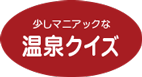
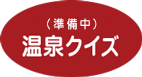
温泉泉質グラフ追加、高橋先生のプロフィール等修正しました。

Changed region(s): [[0.2254, 0.2338, 0.7887, 0.3896]]

diff --git a/onsen/index.html b/onsen/index.html
@@ -54,7 +54,7 @@
 						<a href="#onsenBangai"><img src="img/bangaiBtn.png" alt="番外編"></a>
 					</li>
 					<li class="imgbtm01">
-						<a href="#"><img src="img/quizBtn.png" alt="温泉クイズ"></a>
+						<img src="img/quizBtn.png" alt="温泉クイズ">
 					</li>
 					<li class="kosei">
 						<a href="#onsenKosei"><img src="img/koseiBtn.png" alt="個性派温泉ランキング"></a>
@@ -79,6 +79,7 @@
 									<li class="tokuchou">秘湯西の大関で硫黄を満喫。強烈な硫化水素臭と青白色の湯
 									</li>
 									<li class="kaisetu">
+									<p class="onsenphoto"><img src="img/sensitu_niiyu.jpg" alt=""></p>
 										<p class="onsenphoto"><img src="img/kirisima02.jpg" alt="霧島温泉"></p>
 										<p class="mapS">
 											<iframe src="https://www.google.com/maps/embed?pb=!1m18!1m12!1m3!1d3387.1348141753265!2d130.85233791591793!3d31.902934235341707!2m3!1f0!2f0!3f0!3m2!1i1024!2i768!4f13.1!3m3!1m2!1s0x353f1a4629fc091f%3A0x8c4a14de6c2012e6!2z5paw5rmv5rip5rOJ!5e0!3m2!1sja!2sjp!4v1468743156456" width="100%" height="150" frameborder="0" style="border:0" allowfullscreen></iframe>
@@ -96,6 +97,7 @@
 									<li class="onsenmei">含硫黄-カルシウム-硫酸塩・塩化物泉（pH2.2）</li>
 									<li class="tokuchou">驚愕のかぶり湯と温度別の湯、硫黄の谷？</li>
 									<li class="kaisetu">
+										<p class="onsenphoto"><img src="img/sensitu_nasuyumoto.jpg" alt=""></p>
 										<p class="onsenphoto"><img src="img/nasu01.jpg" alt="那須温泉"></p>
 										<p class="mapS">
 											<iframe src="https://www.google.com/maps/embed?pb=!1m14!1m8!1m3!1d12729.163051542782!2d140.00101!3d37.0981956!3m2!1i1024!2i768!4f13.1!3m3!1m2!1s0x0%3A0x45b7f6b15c53af83!2z6bm_44Gu5rmv!5e0!3m2!1sja!2sjp!4v1468742576988" width="100%" height="150" frameborder="0" style="border:0" allowfullscreen></iframe>
@@ -113,6 +115,7 @@
 									<li class="onsenmei">酸性-含硫黄-ナトリウム-硫酸塩・塩化物泉（pH1.8-2.5）</li>
 									<li class="tokuchou">高原の青空と乳白色の湯のコントラスト</li>
 									<li class="kaisetu">
+										<p class="onsenphoto"><img src="img/sensitu_manza.jpg" alt=""></p>
 										<p class="onsenphoto"><img src="img/manza01.jpg" alt="万座温泉"></p>
 										<p class="mapS">
 											<iframe src="https://www.google.com/maps/embed?pb=!1m18!1m12!1m3!1d3201.413442917218!2d138.50692361598198!3d36.64050318437098!2m3!1f0!2f0!3f0!3m2!1i1024!2i768!4f13.1!3m3!1m2!1s0x601deee7d31555a3%3A0x5ae9750aa8463bc9!2z5LiH5bqn5rip5rOJ!5e0!3m2!1sja!2sjp!4v1468745853072" width="100%" height="150" frameborder="0" style="border:0" allowfullscreen></iframe>
@@ -129,6 +132,7 @@
 									</li>
 									<li class="tokuchou">強酸性の温泉と噴気地帯でのワイルドすぎる岩盤浴</li>
 									<li class="kaisetu">
+										<p class="onsenphoto"><img src="img/sensitu_tamagawa.jpg" alt=""></p>
 										<p class="onsenphoto"><img src="img/tamagawa01.jpg" alt="玉川温泉"></p>
 										<p class="mapGoogle"><a href="https://goo.gl/maps/hj4q97TuhyM2" target="_blank">google mapを見る&nbsp;&gt;</a>
 										</p>　
@@ -142,6 +146,7 @@
 									<li class="onsenmei">酸性・含硫黄-アルミニウム-硫酸塩・塩化物泉（pH2.1）</li>
 									<li class="tokuchou">温泉番付で最高位の東の大関。自然湧出量は日本一</li>
 									<li class="kaisetu">
+										<p class="onsenphoto"><img src="img/sensitu_kusatu.jpg" alt=""></p>
 										<p class="onsenphoto"><img src="img/kusatu01.jpg" alt="草津温泉"></p>
 										<p class="mapGoogle"><a href="https://goo.gl/maps/NsuUzmib6HM2" target="_blank">google mapを見る&nbsp;&gt;</a>
 										</p>
@@ -156,6 +161,7 @@
 									<li class="onsenmei">含酸性-カルシウム-マグネシウム-硫酸塩・塩化物泉（pH2.9）</li>
 									<li class="tokuchou">黒玉子でも有名な大涌谷で作られる温泉</li>
 									<li class="kaisetu">
+								<p class="onsenphoto"><img src="img/sensitu_sengokuhara.jpg" alt=""></p>
 								<p class="onsenphoto"><img src="img/hakone01.jpg" alt="箱根温泉"></p>
 								<p class="mapGoogle"><a href="https://goo.gl/maps/oRj2AGWS89y" target="_blank">google mapを見る&nbsp;&gt;</a></p>　
 										<p class="txt">箱根火山の硫気地帯で最も規模が大きいのが大涌谷です。大涌谷は3000年ほど前の神山での水蒸気爆発の火口跡で、2015年春の活発化も記憶に新しいところです。
@@ -170,6 +176,7 @@
 									<li class="onsenmei">酸性-アルミニウム-硫酸塩泉（硫化水素型）など（pH2.8~）</li>
 									<li class="tokuchou">湯けむりといえば別府</li>
 									<li class="kaisetu">
+										<p class="onsenphoto"><img src="img/sensitu_beppu.jpg" alt=""></p>
 										<p class="onsenphoto"><img src="img/beppu01.jpg" alt="別府温泉"></p>
 										<p class="mapGoogle"><a href="https://goo.gl/maps/yskAKmH8emR2" target="_blank">google mapを見る&nbsp;&gt;</a></p>　
                     <p class="txt">火山性の熱源、豊富な地下水を湛える扇状地、温泉の通り道である断層の条件が整った別府には、断層に沿って泉質の異なる温泉エリアがいくつもあることをブラタモリ＃63で学びました。確かにあれほどの湯けむりの景色はなかなか他では見られません。見どころはつきない別府ですが、延内寺の爆裂火口跡にも驚かされます。泥火山も迫力で、ニュージーランドのロトルアと姉妹都市であるのも納得です。</p>
@@ -183,6 +190,7 @@
 									</li>
 									<li class="tokuchou">これぞ温泉地の源泉の風景</li>
 									<li class="kaisetu">
+										<p class="onsenphoto"><img src="img/sensitu_okunikko.jpg" alt=""></p>
 										<p class="onsenphoto"><img src="img/okunikko.jpg" alt="地獄谷温泉"></p>
 										<p class="mapGoogle"><a href="https://goo.gl/maps/YBD3zLrr3m82" target="_blank">google mapを見る&nbsp;&gt;</a></p>　
                     <p class="txt">日光は見どころ満載の有名な観光地ですが、奥日光まで足をのばすと、湯ノ湖のそばの湯ノ平湿原一帯には、標高1500ｍの高原の温泉地があります。地熱のパワーを感じさせる泉源地帯の光景は独特です。日帰りでも白濁の湯を堪能できる宿がたくさんあります。</p>
@@ -195,6 +203,7 @@
 									<li class="onsenmei">酸性・含硫黄-ナトリウム-硫酸塩泉ほか（pH1.4~）</li>
 									<li class="tokuchou">温泉ワンダーランド</li>
 									<li class="kaisetu">
+										<p class="onsenphoto"><img src="img/sensitu_noboribetu.jpg" alt=""></p>
 										<p class="onsenphoto"><img src="img/noboribetu.jpg" alt="登別温泉"></p>
 										<p class="mapGoogle"><a href="https://goo.gl/maps/rV66pJn7AoH2" target="_blank">google mapを見る&nbsp;&gt;</a></p>　
 										<p class="txt">草津の殺生河原，雲仙，箱根大涌谷など「地獄」の光景はどこも迫力満点ですが，中でも登別は規模が大きく，圧倒されます．すぐそばの温泉街には，いろんな泉質の湯を楽しめる旅館もあり，ワンダーな温泉地といえます．
@@ -208,6 +217,7 @@
 									<li class="onsenmei">酸性-含硫黄-アルミニウム-硫酸塩泉ほか（pH1.8~5.8）</li>
 									<li class="tokuchou">泥水中での噴気活動、坊主地獄も見られる雲仙地獄</li>
 									<li class="kaisetu">
+										<p class="onsenphoto"><img src="img/sensitu_unzen.jpg" alt=""></p>
 										<p class="onsenphoto"><img src="img/unzen01.jpg" alt="雲仙温泉"></p>
 										<p class="mapGoogle"><a href="https://goo.gl/maps/EYruPW2wJEN2" target="_blank">google mapを見る&nbsp;&gt;</a></p>　
 										<p class="txt">雲仙普賢岳の噴火は20年以上前のこととなりましたが、島原半島ジオパークは，随所で説明の看板が充実していて，self-guided tourもできますが，雲仙地獄ははずせない見学地点です．
@@ -230,6 +240,7 @@
 								<li class="onsenmei">ナトリウム-カルシウム-硫酸塩・塩化物泉（pH7.0）</li>
 								<li class="tokuchou">外国人観光客が集結するスノーモンキーの温泉</li>
 								<li class="kaisetu">
+									<p class="onsenphoto"><img src="img/sensitu_jigokudani.jpg" alt=""></p>
 									<p class="onsenphoto"><img src="img/jigokudani01.jpg" alt="地獄谷野猿公苑"></p>
 									<p class="mapS">
 										<iframe src="https://www.google.com/maps/embed?pb=!1m18!1m12!1m3!1d3197.5794891078754!2d138.45995631598325!3d36.732659279197165!2m3!1f0!2f0!3f0!3m2!1i1024!2i768!4f13.1!3m3!1m2!1s0x601df3ec4ca220cf%3A0xf64d8b73ef8dd61f!2z5Zyw542E6LC36YeO54y_5YWs6IuR!5e0!3m2!1sja!2sjp!4v1468769823221" width="100%" height="150" frameborder="0" style="border:0" allowfullscreen></iframe></p>　
@@ -244,6 +255,7 @@
 								<li class="onsenmei">単純温泉・アルカリ性単純温泉（pH5.0-8.6）</li>
 								<li class="tokuchou">なんと噴火口の中、さっぱり高温湯。"スメ"とは？</li>
 								<li class="kaisetu">
+								<p class="onsenphoto"><img src="img/sensitu_unagi.jpg" alt=""></p>
 									<p class="onsenphoto"><img src="img/unagi01.jpg" alt="鰻温泉"></p>
 									<p class="mapS">
 										<iframe src="https://www.google.com/maps/embed?pb=!1m18!1m12!1m3!1d6783417.6128137885!2d130.1937684595562!3d33.884099999288566!2m3!1f0!2f0!3f0!3m2!1i1024!2i768!4f13.1!3m3!1m2!1s0x353dd51e4870a5af%3A0x3e67658d43f44cbc!2z5Yy65Za26bC75rip5rOJ!5e0!3m2!1sja!2sjp!4v1480489407301" width="100%" height="150" frameborder="0" style="border:0" allowfullscreen></iframe></p>　
@@ -259,6 +271,7 @@
 								<li class="onsenmei">含鉄-ナトリウム-塩化物泉、二酸化炭素泉、放射能泉（pH4.6-6.2）</li>
 								<li class="tokuchou">西の大関、とにかく熱い金の湯！歴史的温泉地</li>
 								<li class="kaisetu">
+									<p class="onsenphoto"><img src="img/sensitu_arima.jpg" alt=""></p>
 									<p class="onsenphoto"><img src="img/arima01.jpg" alt="有馬温泉"></p>
 									<p class="mapS">
 										<iframe src="https://www.google.com/maps/embed?pb=!1m14!1m8!1m3!1d13105.062141122935!2d135.246313!3d34.7992608!3m2!1i1024!2i768!4f13.1!3m3!1m2!1s0x0%3A0x3153b76ab7ec41aa!2z5pyJ6aas5rip5rOJ6aeF!5e0!3m2!1sja!2sjp!4v1468818107315" width="100%" height="150" frameborder="0" style="border:0" allowfullscreen></iframe></p>　
@@ -274,6 +287,7 @@
 								<li class="onsenmei">ナトリウム-塩化物泉（pH6.0-7.0）</li>
 								<li class="tokuchou">80度の湯がわく海岸！砂蒸しは10分以内で</li>
 								<li class="kaisetu">
+									<p class="onsenphoto"><img src="img/sensitu_ibusuki.jpg" alt=""></p>
 									<p class="onsenphoto"><img src="img/ibusuki02.jpg" alt="指宿温泉"></p>
 									<p class="mapGoogle"><a href="https://goo.gl/maps/Q2Jg1eUWEht" target="_blank">google mapを見る&nbsp;&gt;</a></p>　
                  <p class="txt">砂蒸しは蒸かし湯の一種で、ユニークな入浴法といえます。指宿の海岸の摺ヶ浜では80度もの湯が自然に湧いており、背後の鰻池周辺から高温の温泉が地下水となって運ばれていると考えられています。
@@ -287,6 +301,7 @@
 								<li class="onsenmei">含硫黄-ナトリウム・カルシウム-硫酸塩泉ほか（pH7.9-9.1）</li>
 								<li class="tokuchou">ゆで釜のある伝統の湯の街の風景</li>
 								<li class="kaisetu">
+									<p class="onsenphoto"><img src="img/sensitu_nozawa.jpg" alt=""></p>
 									<p class="onsenphoto"><img src="img/nozawa02.jpg" alt="野沢温泉"></p>
 									<p class="mapGoogle"><a href="https://goo.gl/maps/sEs54bfqHX72" target="=blank">google mapを見る&nbsp;&gt;</a></p>　
 									<p class="txt">野沢温泉は、志賀高原の火山の一つである毛無山のふもとにあり、火山の恵みを実感できる地です。上杉・武田の湯治場でもあった野沢温泉の共同湯「大湯」は江戸時代の趣のある湯屋建築です。曲がりくねった細い坂道が多い温泉街では外湯めぐりや散策が楽しめ、朝市も人気です。
@@ -300,6 +315,7 @@
 								<li class="onsenmei">含鉄‐ナトリウム・カルシウム‐塩化物温泉（pH6.4）</li>
 								<li class="tokuchou">鉄分たっぷりの信州の湯</li>
 								<li class="kaisetu">
+									<p class="onsenphoto"><img src="img/sensitu_matusiro.jpg" alt=""></p>
 									<p class="onsenphoto"><img src="img/matushiro01.jpg" alt="松代温泉"></p>
 									<p class="mapGoogle"><a href="https://goo.gl/maps/PPdzQtv8vCR2" target="=blank">google mapを見る&nbsp;&gt;</a></p>　
                   <p class="txt">鉄分が濃厚な赤褐色の濁り湯を湛えた湯船の周りには分厚い析出物が見られます。ケンザンの上を歩くような析出物もあり、時々そぎ落としているようです。驚くべき鉄分の多さです。</p>
@@ -312,6 +328,7 @@
 								<li class="onsenmei">含硫黄-アルミニウム-硫酸塩泉（pH1.3-1.5）</li>
 								<li class="tokuchou">美しい火口湖が知られる蔵王火山の麓の強酸性の湯</li>
 								<li class="kaisetu">
+									<p class="onsenphoto"><img src="img/sensitu_zao.jpg" alt=""></p>
 									<p class="onsenphoto"><img src="img/zao01.jpg" alt="＊＊温泉"></p>
 									<p class="mapGoogle"><a href="https://goo.gl/maps/PSRyha4q8iF2" target="=blank">google mapを見る&nbsp;&gt;</a></p>
                   <p class="txt">スキーをはいて有名な樹氷モンスターの光景を堪能した後には，蔵王の湯で 体を温めるのがおすすめです。けれども透明でピリピリ感のある強酸性の湯は目に入るとしばらく開けられないほど強烈なので、注意が必要なほどです。</p>
@@ -324,6 +341,7 @@
 								<li class="onsenmei">含硫黄‐ナトリウム・マグネシウム・カルシウム‐炭酸水素塩温（pH6.6）</li>
 								<li class="tokuchou">標高2,000mの絶景の野天風呂</li>
 								<li class="kaisetu">
+									<p class="onsenphoto"><img src="img/sensitu_takamine.jpg" alt=""></p>
 									<p class="onsenphoto"><img src="img/takamine.jpg" alt="高峰温泉"></p>
 									<p class="mapGoogle"><a href="https://goo.gl/maps/yEaJ3PHA7wM2" target="=blank">google mapを見る&nbsp;&gt;</a></p>　登山，スキー，星空や野鳥，高原植物の観察などいろいろ楽しむことができる高峰高原．
 									<br>　高峰温泉は、烏帽子・浅間火山群の真っただ中にあります。日帰り利用もできるランプの湯では、やや温度の低めの源泉も楽しめます。かすかに硫黄の匂いのする湯はよく温まります。特筆すべきは、宿泊者限定の野天風呂で、目の前に絶景が広がります。
@@ -336,6 +354,7 @@
 								<li class="onsenmei">塩化物泉（pH8.1-8.7）</li>
 								<li class="tokuchou">全国でも珍しいワニの温泉飼育（伊豆熱川）</li>
 								<li class="kaisetu">
+									<p class="onsenphoto"><img src="img/sensitu_atagawa.jpg" alt=""></p>
 									<p class="onsenphoto"><img src="img/atagawa01.jpg" alt="熱川温泉"></p>
 									<p class="mapGoogle"><a href="https://goo.gl/maps/wac5oDFaSf52" target="=blank">google mapを見る&nbsp;&gt;</a></p>　気持ちよさそうにプカプカと温泉に浸っているワニを見ると，おとなしい動物なのではないかと錯覚しそうになります．湯のよさは，このワニ達が証明しているといえそうです（もちろんこの湯船には人は入れませんが）．
 									<br>　ここでは熱帯植物の栽培にも温泉が利用されていて，温室できれいな植物をたくさん見ることもできます．
@@ -348,6 +367,7 @@
 								<li class="onsenmei">含ナトリウム塩化物-カルシウム硫酸塩泉（硫化水素型）（pH7.2）</li>
 								<li class="tokuchou">高台移転をした、ダムに沈みゆく思い出の温泉地</li>
 								<li class="kaisetu">
+									<p class="onsenphoto"><img src="img/sensitu_kawarayu.jpg" alt=""></p>
 									<p class="onsenphoto"><img src="img/kawarayu01.jpg" alt="川原湯温泉"></p>
 									<p class="mapGoogle"><a href="https://goo.gl/maps/XrkEfHjVmz52" target="=blank">google mapを見る&nbsp;&gt;</a></p>　昭和の雰囲気を残す温泉街にあった共同湯．とにかく熱い湯でした．
 									<br>　熱すぎる時は，水の出るホースを持って入るのだと地元の方に教えられた記憶があります．</li>
@@ -374,6 +394,7 @@
 								<li class="onsenmei">単純硫黄泉（pH8.1）</li>
 								<li class="tokuchou">トロッコ電車と徒歩でたどりつくワイルドな湯</li>
 								<li class="kaisetu">
+									<p class="onsenphoto"><img src="img/sensitu_babadani.jpg" alt=""></p>
 									<p class="onsenphoto"><img src="img/babadani01.jpg" alt="祖母谷温泉"></p>
 									<p class="mapGoogle"><a href="https://goo.gl/maps/hzVd6zaUzmN2" target="=blank">google mapを見る&nbsp;&gt;</a></p>
 									<p class="mapS"></p>
@@ -387,6 +408,8 @@
 								<li class="onsenmei">単純硫黄泉（pH6.2）</li>
 								<li class="tokuchou">強烈な湯がたっぷり</li>
 								<li class="kaisetu">
+									<p class="onsenphoto"><img src="img/sensitu_kita.jpg" alt=""></p>
+									<p class="onsenphoto"><img src="img/sensitu_kita.jpg.jpg" alt=""></p>
 									<p class="onsenphoto"><img src="img/kita.jpg" alt="那須・北温泉"></p>
 									<p class="mapGoogle"><a href="https://goo.gl/maps/2daKinbvBc42" target="=blank">google mapを見る&nbsp;&gt;</a></p>
                   <p class="txt">テルマエ・ロマエにも登場した独特の風情の北温泉。ここの湯はぐったりするほど強烈です。露天風呂のすぐ横に“湯の川”が流れています。</p></li>
@@ -398,6 +421,7 @@
 								<li class="onsenmei">単純硫黄泉（硫化水素型）（pH3.1）</li>
 								<li class="tokuchou">日本一高所（標高2430m）の温泉施設</li>
 								<li class="kaisetu">
+									<p class="onsenphoto"><img src="img/sensitu_mikuriga.jpg" alt=""></p>
 									<p class="onsenphoto"><img src="img/mikurigaike.jpg" alt="みくりが池温泉"></p>
 									<p class="mapGoogle"><a href="https://goo.gl/maps/g2xxh4eKpbp" target="=blank">google mapを見る&nbsp;&gt;</a></p>
                   <p class="txt">室堂を訪れたら立ち寄りたくなる白濁の湯です。雷鳥に会えなかったとしても、この風景と温泉でリフレッシュできること間違いなしです。</p></li>
@@ -410,6 +434,7 @@
 								<li class="onsenmei">単純硫黄泉（硫化水素型）<small>＊推定</small>（pH1-2）</li>
 								<li class="tokuchou">広大な噴気地帯散策の後は白濁の湯船へ</li>
 								<li class="kaisetu">
+									<p class="onsenphoto"><img src="img/sensitu_hellsgate.jpg" alt=""></p>
 									<p class="onsenphoto"><img src="img/HellsGate.jpg" alt="Hell‘s Gate温泉"></p>
 									<p class="mapGoogle"><a href="https://goo.gl/maps/Kc4czrtQ5HP2" target="=blank">google mapを見る&nbsp;&gt;</a></p>
                   <p class="txt">その名も恐ろしいヘルズゲイト「地獄の門」はロトルアの北東方向にあります。空から見ると一大噴気地帯であることがわかります。散策路では水蒸気爆発の跡と思われる湯の湖や泥火山が点在する硫気地帯の中を巡ることができます。水着着用の白濁の湯船の周りには、温泉入浴をする人々を見物する観光客もました。泥湯（有料）の湯船もあり、とても充実した温泉施設です。ニュージーランドの人々の温泉好きが伝わってきます。ロトルアカルデラの火山の恵みをたっぷり楽しめるので、立ち寄りたい場所です。</p>
@@ -433,6 +458,7 @@
 									<li class="onsenmei">ナトリウム‐炭酸水素塩・塩化物温泉（pH7.5）</li>
 									<li class="tokuchou">あたたまる度No.1</li>
 									<li class="kaisetu">
+										<p class="onsenphoto"><img src="img/sensitu_hosino.jpg" alt=""></p>
 										<p class="onsenphoto"><img src="img/hoshino01.jpg" alt="星野温泉"></p>
 										<p class="mapGoogle"><a href="https://goo.gl/maps/HzdjThM34pS2" target="_blank">google mapを見る&nbsp;&gt;</a></p>　
                     <p class="txt">明治時代の草津帰りの人々の「草津の上り湯」は、まろやかな湯でポカポカ感が持続します。緑色の溶結凝灰岩の床や、カコウ岩の岩風呂など石材ウォッチングもできます。人気スポットで、混雑するときもありますが、脱衣所では静かにジャズが流れています。</p></li>
@@ -444,6 +470,7 @@
 									<li class="onsenmei">ナトリウム-塩化物泉（pH6.6）</li>
 									<li class="tokuchou">噴火を見ながら足湯⁉</li>
 									<li class="kaisetu">
+										<p class="onsenphoto"><img src="img/sensitu_maguma.jpg" alt=""></p>
 										<p class="onsenphoto"><img src="img/magma.jpg" alt="マグマ温泉"></p>
 										<p class="mapGoogle"><a href="https://goo.gl/maps/C41MR9SXQzq" target="_blank">google mapを見る&nbsp;&gt;</a></p>　
 										<p class="txt">桜島での火山の地質調査の帰りに、地元の人々に混じって楽しむのが、ネーミングも強烈な「マグマ温泉」です。桜島では時々同業の火山研究者の方に遭遇することもありますが、かつてマグマ温泉の近くにあった国民宿舎「さくらじま荘」のオレンジ色のタオルを懐かしく思う方も多いと思われます。
@@ -459,6 +486,7 @@
 									<li class="tokuchou">時々庭先で自噴もする湯の街
 									</li>
 									<li class="kaisetu">
+										<p class="onsenphoto"><img src="img/sensitu_rotorua.jpg" alt=""></p>
 										<p class="onsenphoto"><img src="img/rotorua.jpg" alt="ロトルア温泉"></p>
 										<p class="mapGoogle"><a href="https://goo.gl/maps/ojAmfgpBrt42" target="_blank">google mapを見る&nbsp;&gt;</a></p>　
 										<p class="txt">海外の温泉事情の例を紹介したいと思います。ニュージーランド北島は日本と同じように火山や地熱活動が活発です。かつて大規模噴火を起こしたロトルアカルデラの湖畔の温かい地熱地帯には、マオリ族も住み着いて、野菜などを埋めて地熱で蒸かしていました（ハンギ料理）。
@@ -473,6 +501,7 @@
 									<li class="tokuchou">ヤギがお出迎えするレトロな宿の，つるつる美人湯
 									</li>
 									<li class="kaisetu">
+										<p class="onsenphoto"><img src="img/sensitu_nakadana.jpg" alt=""></p>
 										<p class="onsenphoto"><img src="img/nakadana.jpg" alt="中棚温泉"></p>
 										<p class="mapGoogle"><a href="https://goo.gl/maps/mpdoJKKk4PF2" target="_blank">google mapを見る&nbsp;&gt;</a></p>　
                     <p class="txt">中棚温泉は千曲川を見下ろす河岸段丘の崖にあり，湯上がりに風に吹かれるのも気持ちよいところです。つるつる感のあるアルカリ性の湯で、りんご湯が楽しめるときもあります。島崎藤村が逗留したという風情ある宿で、玄関前ではなんとヤギが出迎えてくれます。信州そばを堪能したり、手入れされた庭を散策するのもよしです。</p>

diff --git a/labo/index.html b/labo/index.html
@@ -86,9 +86,9 @@
 							<li>東京大学&nbsp;理学部&nbsp;地質鉱物学科卒</li>
 							<li>東京大学&nbsp;理系大学院&nbsp;博士課程修了</li>
 						</ul>
-						<p class="prof1">茨城大学理学部地球科学科・地球生命環境科学科助教授・教授を経て現在日本大学文理学部地球システム科学科教授（この間，アメリカ合衆国スミソニアン自然史博物館客員研究員，通産省工業技術院地質調査所研究官併任などを務める）</p>
-						<p>関心のある分野：火山テクトニクスとマグマ供給システム・マグマ溜りプロセス・マグマ活動とテクトニクス場の関係・火山体形成史（プロキシマル火山地質学）・大規模珪長質マグマ活動の成因・カルデラの内部構造・花崗岩の成因と大陸地殻の進化・花崗岩マグマの上昇メカニズム・地質環境の長期安定性と高レベル放射性廃棄物の地層処分など</p>
-						<p>専門：火山学・岩石学・地質学</p>
+						<p class="prof1">東京港区芝生まれの江戸っ子．芝神明様で産湯をつかり，芝公園を駆け回る幼少時を過ごす．大学入学後，博物学と自然哲学に惹かれて地質学の道を志す．<br>学部・大学院時代は，中部九州の祖母・傾・大崩山塊で，毎日千メートル余りの高度差を登り降りし，中期中新世の大崩山火山深成複合岩体の研究に打ち込む．<br>博士課程修了後は茨城大学理学部地球科学科および地球生命環境科学科・教授を経て，現職．</p>
+<!--						<p class="prof1">茨城大学理学部地球科学科・地球生命環境科学科助教授・教授を経て現在日本大学文理学部地球システム科学科教授（この間，アメリカ合衆国スミソニアン自然史博物館客員研究員，通産省工業技術院地質調査所研究官併任などを務める）</p>-->
+						<p>関心のある分野：私の研究史参照のこと．（準備中）</p>
 						<p class="more"><a href="takahashi/index.html">もっと見る</a></p>
 					</div>
 					<!--/.left2-->

diff --git a/labo/takahashi/index.html b/labo/takahashi/index.html
@@ -79,8 +79,8 @@ $(function(){
 <dl class="book"><dt><img src="img/kazan06.png" alt=""></dt><dd><dd><span class="bold">フィールドガイド<br>日本の火山 6</span><br>築地書館</dd></dl>
 <!-- <p><img src="img/kazanzukan.png" alt=""></p><p>日本の火山図鑑　○○社</p>
 <p><img src="img/kaseisayou.png" alt=""></p><p>日本の火山図鑑　○○社</p> -->
-<h3 id="mokuji02">研究史</h3>
-<p class="kenkyusi">ここに高橋先生の研究史が入る予定です。ここに高橋先生の研究史が入る予定です。ここに高橋先生の研究史が入る予定です。ここに高橋先生の研究史が入る予定です。ここに高橋先生の研究史が入る予定です。ここに高橋先生の研究史が入る予定です。ここに高橋先生の研究史が入る予定です。ここに高橋先生の研究史が入る予定です。ここに高橋先生の研究史が入る予定です。ここに高橋先生の研究史が入る予定です。ここに高橋先生の研究史が入る予定です。ここに高橋先生の研究史が入る予定です。ここに高橋先生の研究史が入る予定です。ここに高橋先生の研究史が入る予定です。ここに高橋先生の研究史が入る予定です。ここに高橋先生の研究史が入る予定です。ここに高橋先生の研究史が入る予定です。ここに高橋先生の研究史が入る予定です。ここに高橋先生の研究史が入る予定です。
+<h3 id="mokuji02">研究史（準備中）</h3>
+<p class="kenkyusi">
 </p>
 <h3 id="mokuji03">公表論文</h3>
 <p class="kousinDate">2014.1.14更新</p>

diff --git a/volcano/index.html b/volcano/index.html
@@ -50,7 +50,7 @@
 					<ul class="kazanList">
 						<p>目　次</p>
 						<br>
-            <li><a href="#">浅間山</a></li>
+            <li class="current"><a href="index.html">桜島火山</a></li>
 						<!--<li><ol class="asamaContents">
 							<a href="index.html#asama01">浅間前掛火山とは</a></li>
 <li><a href="index2.html">浅間前掛火山の噴火様式と噴火史</a></li>
@@ -62,12 +62,11 @@
 <li><a href="#asama08">浅間前掛火山のマグマ供給システム</a></li>
 						</ol>-->
 
-            <!--<li><a href="#">富士火山</a></li>
-            <li><a href="#">箱根</a></li>
-						<li class="current"><a href="index.html">桜島</a></li>
-            <li><a href="#">ハワイ</a></li>
-						<li><a href="#">浅間火山</a></li>
-            <li class="titleOnly"><a href="#">箱根火山</a></li>
+            <li>浅間火山（準備中）</li>
+            <li>箱根火山（準備中）</li>
+            <li>富士火山（準備中）</li>
+						<li>その他（準備中）</li>
+<!--
 						<li class="titleOnly"><a href="#">富士火山のテクトニクス</a></li>
             <li class="titleOnly"><a href="#">青木ヶ原溶岩</a></li>
             <li class="titleOnly"><a href="#">プロキシマル火山地質学</a></li>

diff --git a/css/onsen.css b/css/onsen.css
@@ -239,6 +239,11 @@ display: none;
 display: none;
 }
 
+p.sensitu img {
+	width: 428px;
+	margin-right: 0;
+	margin-bottom: 10px;
+}
 
 /*レスポンシブ*/
 @media screen and (max-width:1019px) {
